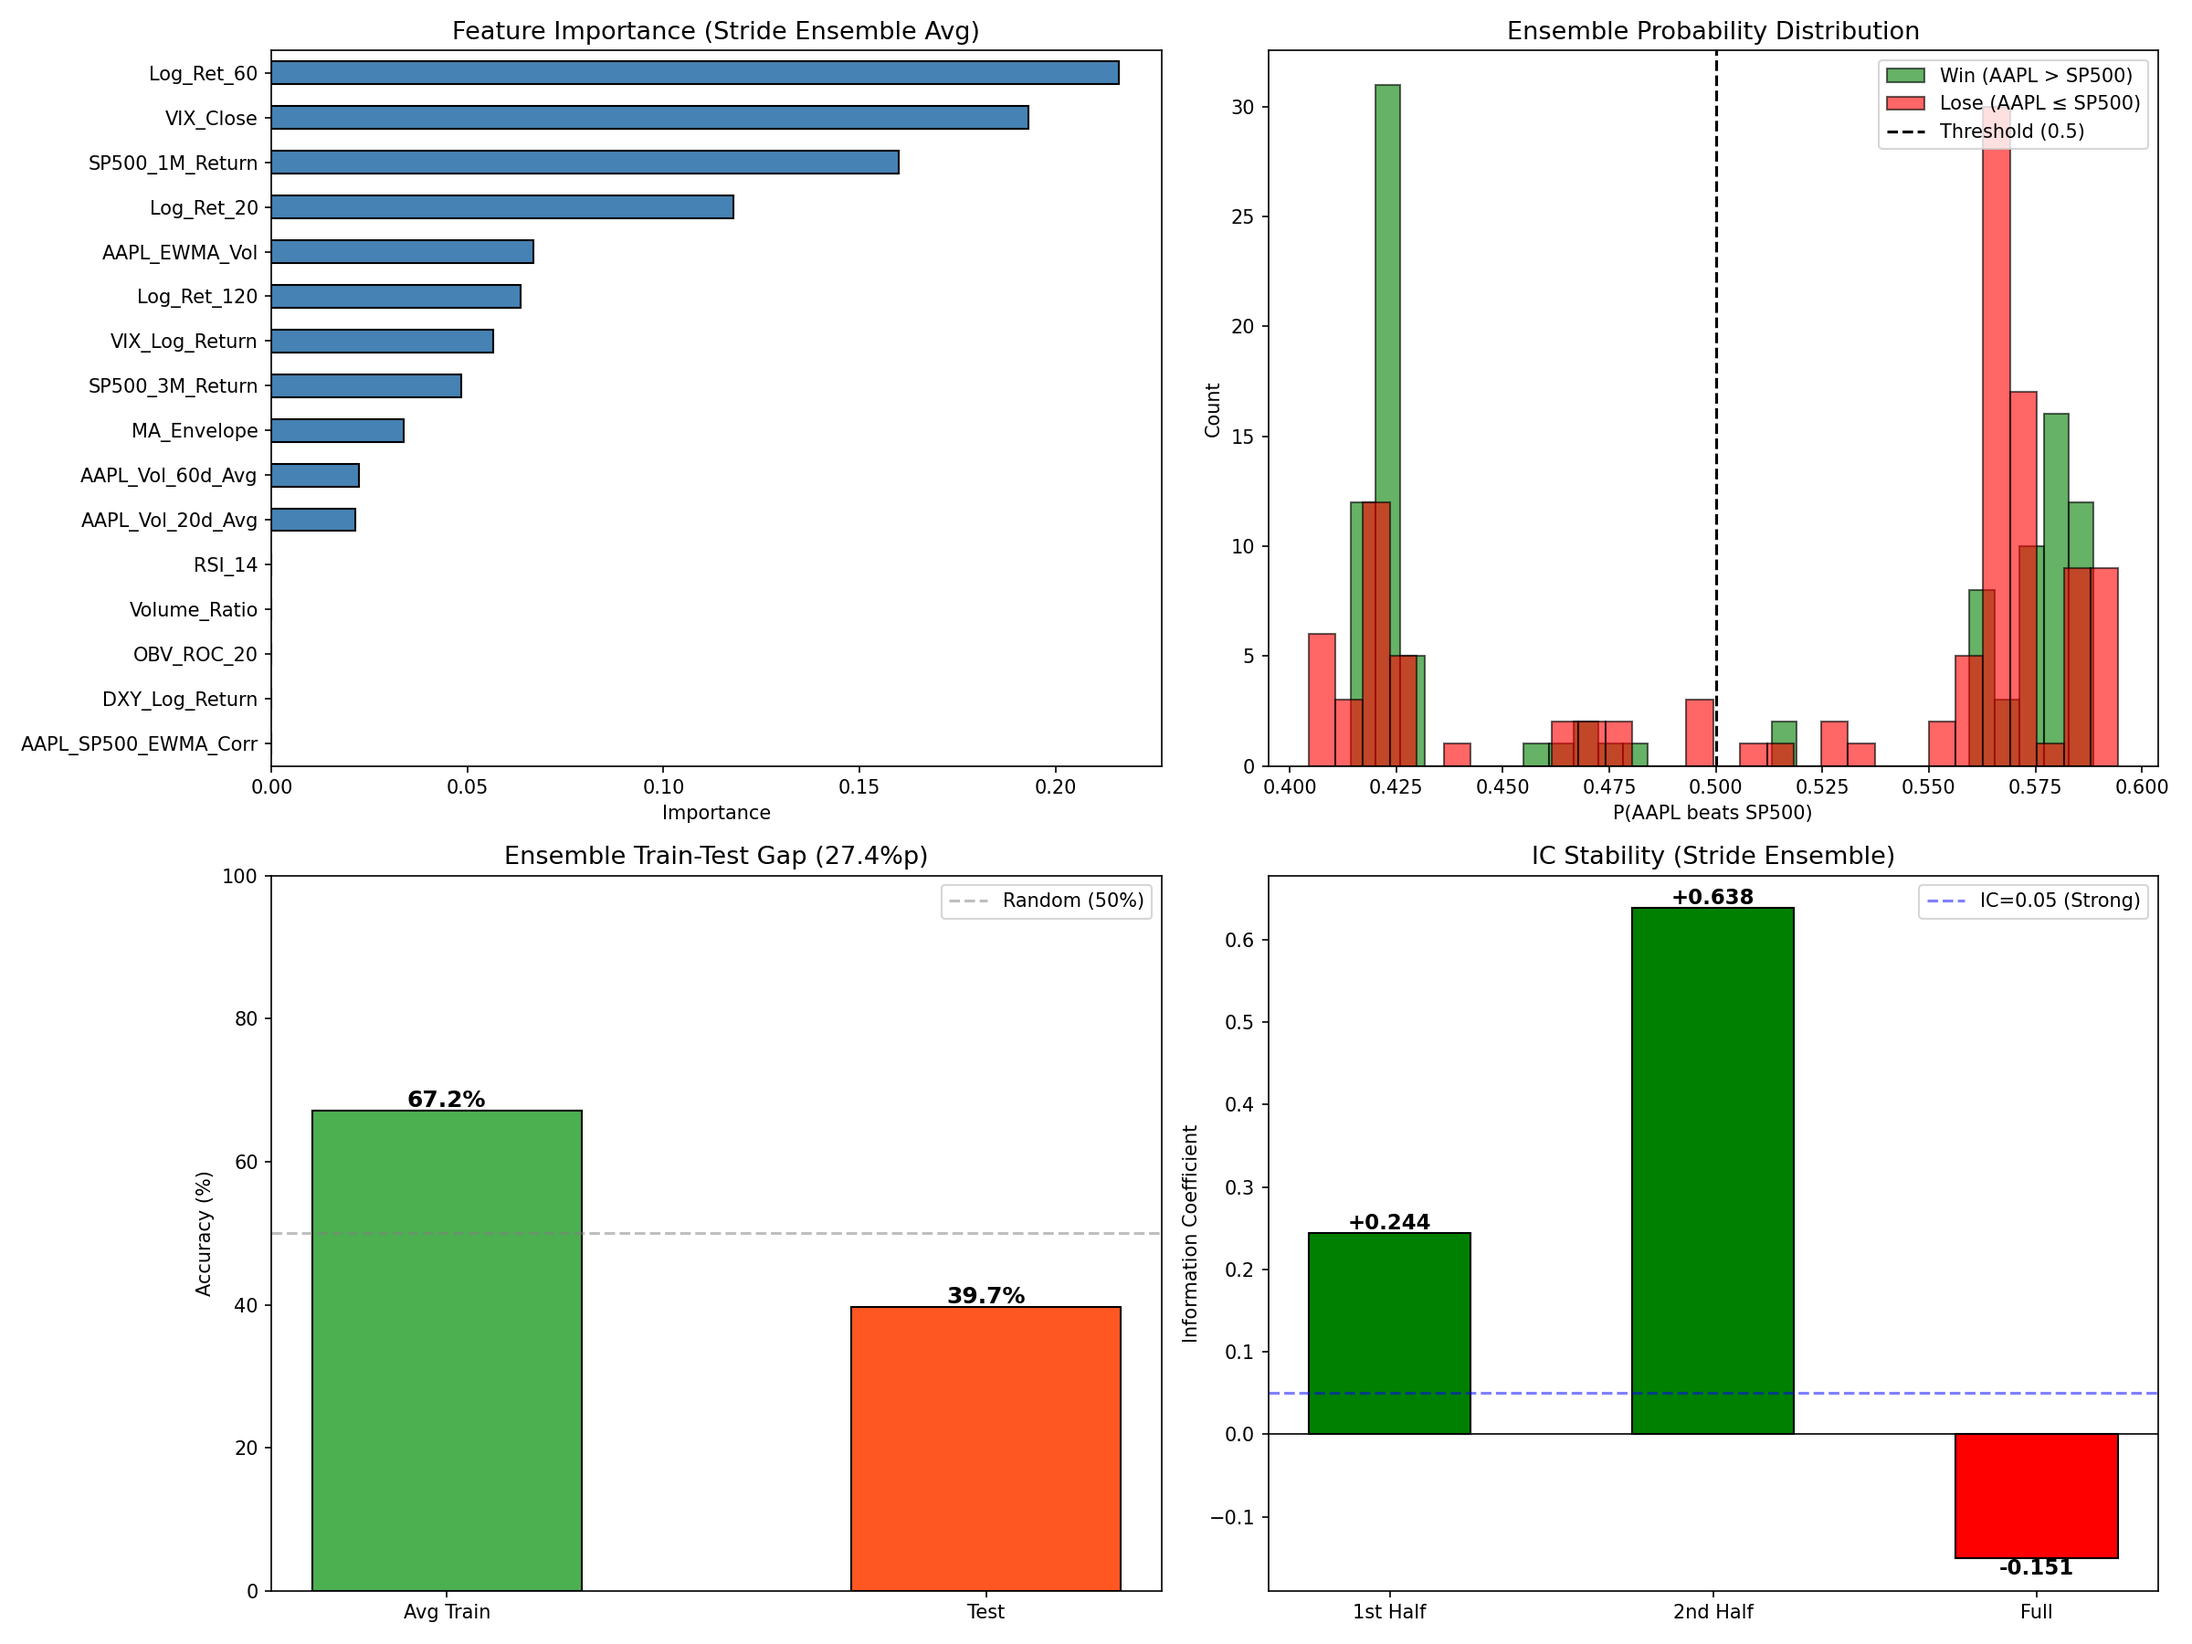
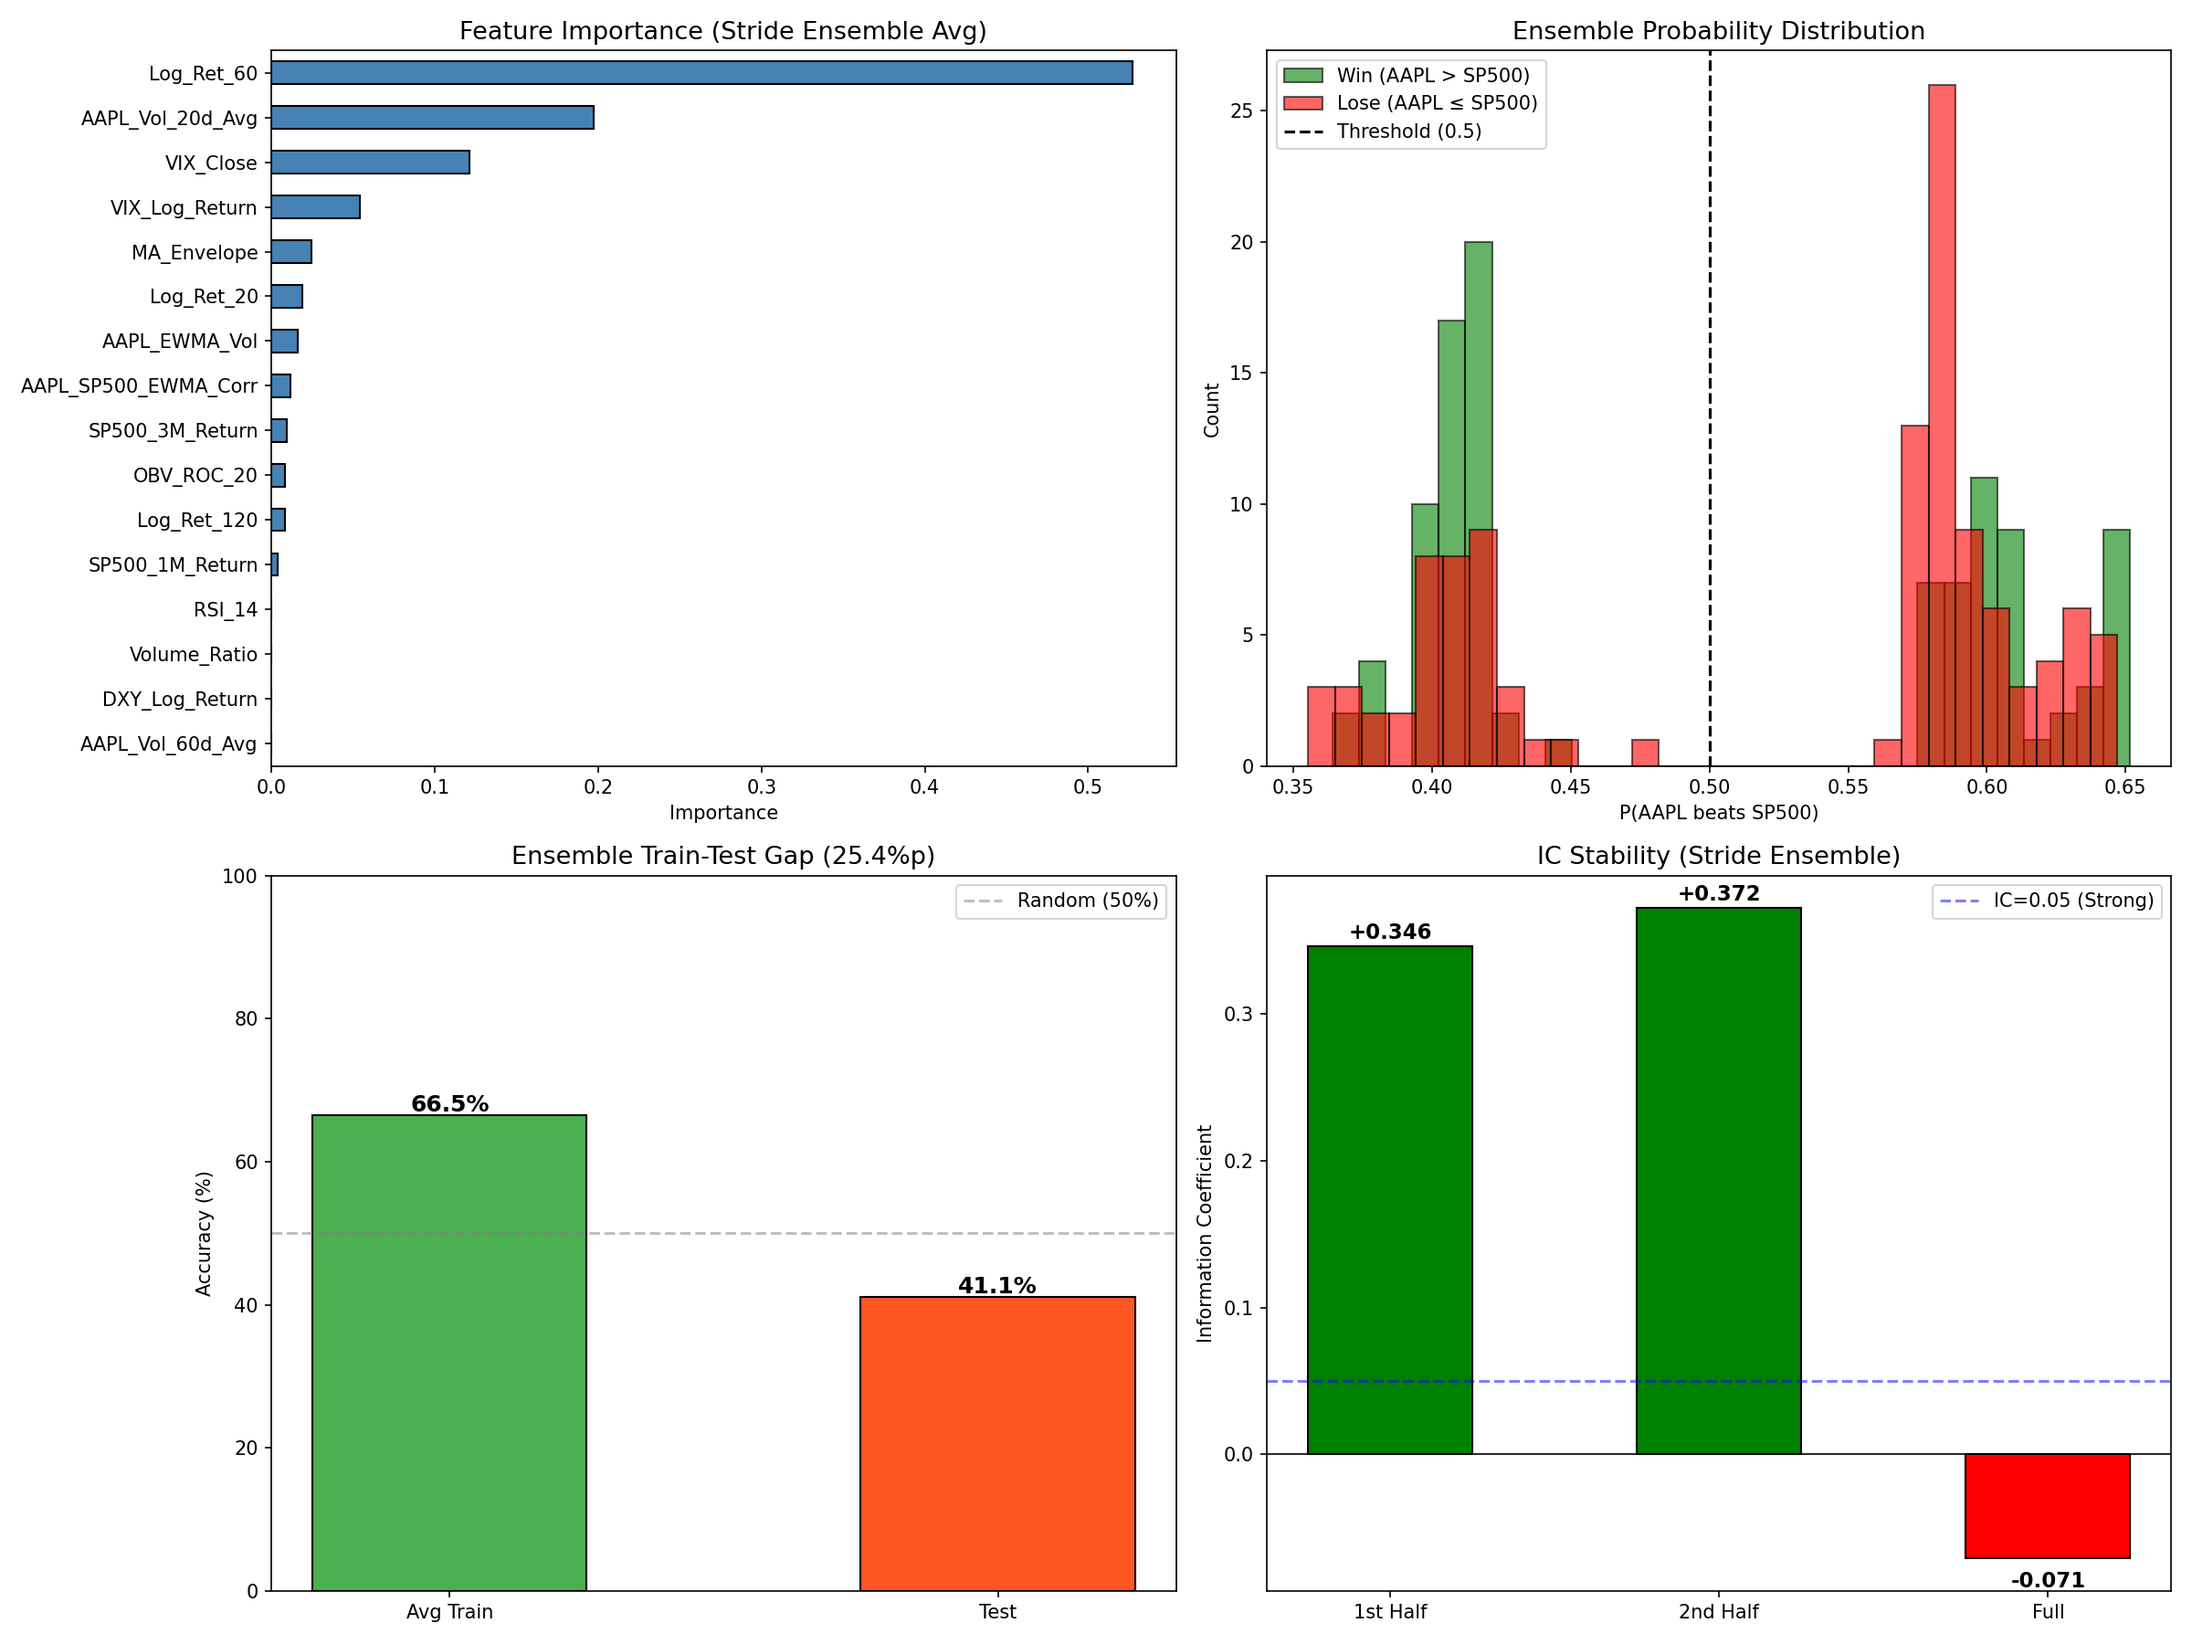
Modify the Model

diff --git a/Classification/optimize_hyperparams.py b/Classification/optimize_hyperparams.py
@@ -57,15 +57,15 @@ def create_objective(full_df, feature_cols):
     def objective(trial):
         # 파라미터 탐색 공간 (Balanced Strategy)
         params = {
-            "max_depth": trial.suggest_int("max_depth", 1, 3), # 깊이 1~3 (복잡도 증가)
-            "learning_rate": trial.suggest_float("learning_rate", 0.05, 0.20, log=True),
-            "n_estimators": trial.suggest_int("n_estimators", 30, 100),
-            "min_child_weight": trial.suggest_int("min_child_weight", 10, 30),
-            "gamma": trial.suggest_float("gamma", 0.1, 2.0),
-            "reg_alpha": trial.suggest_float("reg_alpha", 0.1, 5.0),
-            "reg_lambda": trial.suggest_float("reg_lambda", 1.0, 10.0),
-            "subsample": trial.suggest_float("subsample", 0.5, 0.8),
-            "colsample_bytree": trial.suggest_float("colsample_bytree", 0.5, 0.8),
+            "max_depth": 1,  # ★ 무조건 1로 고정 (과적합 원천 봉쇄)
+            "learning_rate": trial.suggest_float("learning_rate", 0.01, 0.1, log=True),
+            "n_estimators": trial.suggest_int("n_estimators", 100, 300), # 트리는 많게
+            "min_child_weight": trial.suggest_int("min_child_weight", 1, 20), # 노이즈 무시 (낮춤)
+            "gamma": 0.0, # 복잡한 규제 제거
+            "reg_alpha": trial.suggest_float("reg_alpha", 0.0, 1.0), # 규제 대폭 완화
+            "reg_lambda": trial.suggest_float("reg_lambda", 0.1, 2.0), # 규제 대폭 완화
+            "subsample": 0.5, # 데이터의 절반만 보면서 다양성 확보
+            "colsample_bytree": 0.5, # 피처의 절반만 보면서 다양성 확보
             "random_state": 42,
             "eval_metric": "logloss",
             "early_stopping_rounds": 20,
